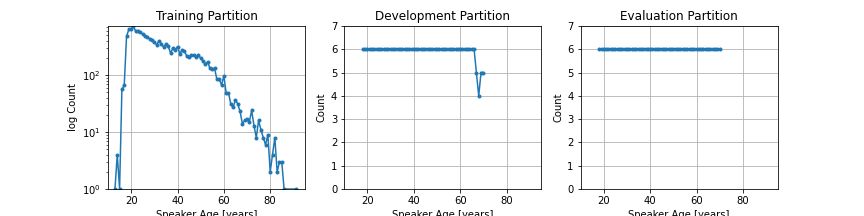
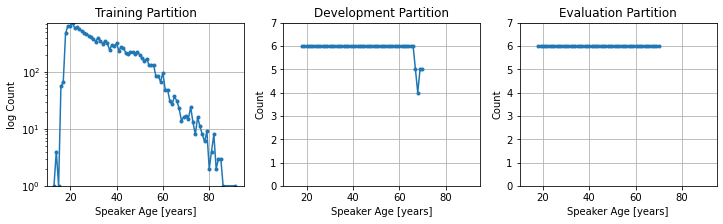
adjusted the bounding box size for png

Changed region(s): [[0.0, 0.0278, 1.0, 1.0]]

diff --git a/README.md b/README.md
@@ -217,7 +217,7 @@ done!
 
 ##### Number of speakers by age.
 
-![Histogram of nr speakers by age.](.figs/histFishBoardMix.pdf)
+![Histogram of nr speakers by age.](.figs/histFishBoardMix.png)
 
 
 [↑top](#fishboardmix-corpus-for-speaker-age-estimation)
